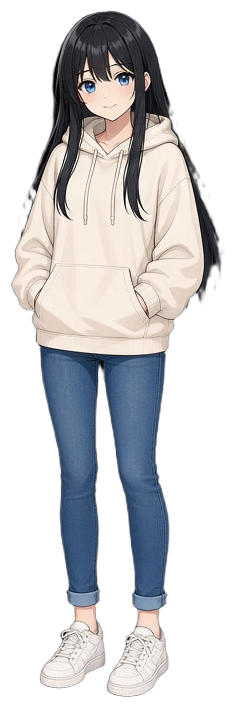
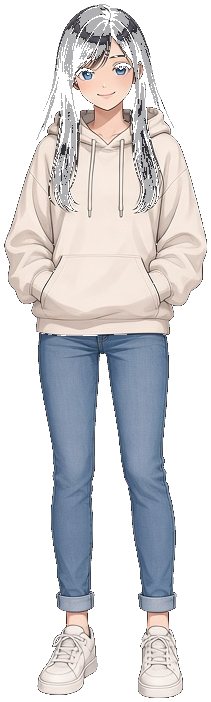
v1.4.11 A Face: prettier straight hair with side part
Refresh camera-facing full-body and dock avatar cutouts; bump face cache tags.

diff --git a/src/ui/app.ts b/src/ui/app.ts
@@ -201,7 +201,7 @@ function seatRelLabel(i: number): string {
 }
 
 function playerAvatarSrc(): string {
-  return getAFace() === "camera" ? "avatars/player-face.png?v=face2" : "avatars/player.png?v=a1";
+  return getAFace() === "camera" ? "avatars/player-face.png?v=face3" : "avatars/player.png?v=a1";
 }
 
 const HOLD_POSE_V = "hold2";
@@ -216,7 +216,7 @@ function playerFullSrc(prop?: ShopPropId | null): string {
   // Beer/coffee still only have back-facing holds; face toggle returns after put-down.
   if (prop === "beer") return `chars/player-hold-beer.png?v=${HOLD_POSE_V}`;
   if (prop === "coffee") return `chars/player-hold-coffee.png?v=${HOLD_POSE_V}`;
-  return face ? "chars/player-face.png?v=face2" : "chars/player-full.png?v=cut2";
+  return face ? "chars/player-face.png?v=face3" : "chars/player-full.png?v=cut2";
 }
 
 function oppositeFullSrc(prop?: ShopPropId | null): string {

diff --git a/public/sw.js b/public/sw.js
@@ -1,5 +1,5 @@
 /* AA Mahjong asset cache — Cache API, not localStorage */
-const CACHE = "aa-mahjong-assets-1.4.10";
+const CACHE = "aa-mahjong-assets-1.4.11";
 const PRECACHE = [
   "avatars/left.png",
   "avatars/opposite.png",
